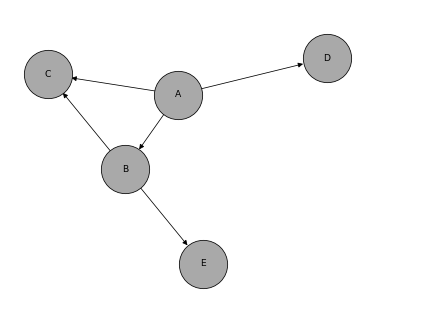
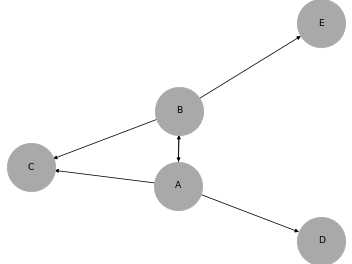
Graph File

diff --git a/Proyecto/MainWindow.py b/Proyecto/MainWindow.py
@@ -1,10 +1,10 @@
 # -*- coding: utf-8 -*-
 import sys
 from ChildWindow import *
-from PyQt5 import QtCore, QtGui, uic, QtWidgets
-from PyQt5.QtGui import QIcon, QRegion
-from PyQt5.QtCore import Qt, QRect
-from PyQt5.QtWidgets import QApplication, QPlainTextEdit, QGraphicsOpacityEffect, QFileDialog
+from PyQt5 import *
+from PyQt5.QtGui import *
+from PyQt5.QtCore import *
+from PyQt5.QtWidgets import *
 form_class = uic.loadUiType("MainWindow.ui")[0]
 
 class MainWindow(QtWidgets.QMainWindow, form_class):
@@ -19,11 +19,22 @@ class MainWindow(QtWidgets.QMainWindow, form_class):
         self.content = ""
         #Lo que va a aparecer en cada QPlianText cuando esté vacío
         self.characters.setPlaceholderText("Ingrese vértices, aristas y caracteristicas")
+        self.characters.setDocumentTitle("hajsadsajdjasd")
+        print(self.characters.documentTitle())
+        
+        self.create_map.clicked.connect(self.printPlainText)
+
+        
+        
         self.root_node.setPlaceholderText("Nodo Origen")
         self.last_node.setPlaceholderText("Nodo Destino")
         self.load_file.clicked.connect(self.loadFile)
         self.create_map.clicked.connect(lambda:child.show())
         self.setFocus()
+
+   
+
+        
 
     def loadFile(self):#Funcion para abrir la ventana de busqueda y cargar un archivo
         options = QFileDialog.Options()
@@ -35,7 +46,12 @@ class MainWindow(QtWidgets.QMainWindow, form_class):
             self.characters.setPlainText(content)
             self.content = content
             #print(self.content)
-            #print("-"*40)           
+            #print("-"*40)     
+
+    def printPlainText(self):
+        t = self.characters.toPlainText()
+        print(t)
+                      
 
 aplicacion = QApplication(sys.argv)
 ventana = MainWindow()

diff --git a/Proyecto/Graph.py b/Proyecto/Graph.py
@@ -1,0 +1,41 @@
+class Graph:
+
+    def __init__(self):
+        self.graph = {}
+
+    def add_vertex(self,vertex_name):
+        self.graph["%s" % (vertex_name)] = []
+
+    def add_edge(self,vertex_origin,vertex_destination):
+        if not (vertex_destination in self.graph["%s" % (vertex_origin)]):
+            self.graph["%s" % (vertex_origin)].append(vertex_destination)
+
+    def connectVertices(self,x):
+
+        graph,s = self.graph,{}
+
+        for k,v in graph.items():
+            if k == x:
+                for i in v:
+                    s[i]= None
+            elif x in v:
+                s[k]=None
+
+        return s.keys() 
+
+
+g = Graph()
+
+g.add_vertex("A")
+g.add_vertex("B")
+g.add_vertex("C")
+g.add_vertex("D")
+g.add_edge("A","C")
+g.add_edge("A","B")
+g.add_edge("A","E")
+g.add_edge("B","E")
+
+x = 'A'
+
+print("The graph is: %s" % (g.graph))
+print("The vertices connected to '%s' are: %s" % (x,g.connectVertices(x)))

diff --git a/Proyecto/ChildWindow.py b/Proyecto/ChildWindow.py
@@ -8,7 +8,7 @@ from PyQt5.QtGui import QIcon, QPixmap
 G = nx.DiGraph()
 
 grafo = {"A":["C","B","D"],
-        "B":["C","E"]}
+        "B":["C","E","A"]}
 
 for vertex, edges in grafo.items():
     G.add_node("%s"%vertex)
